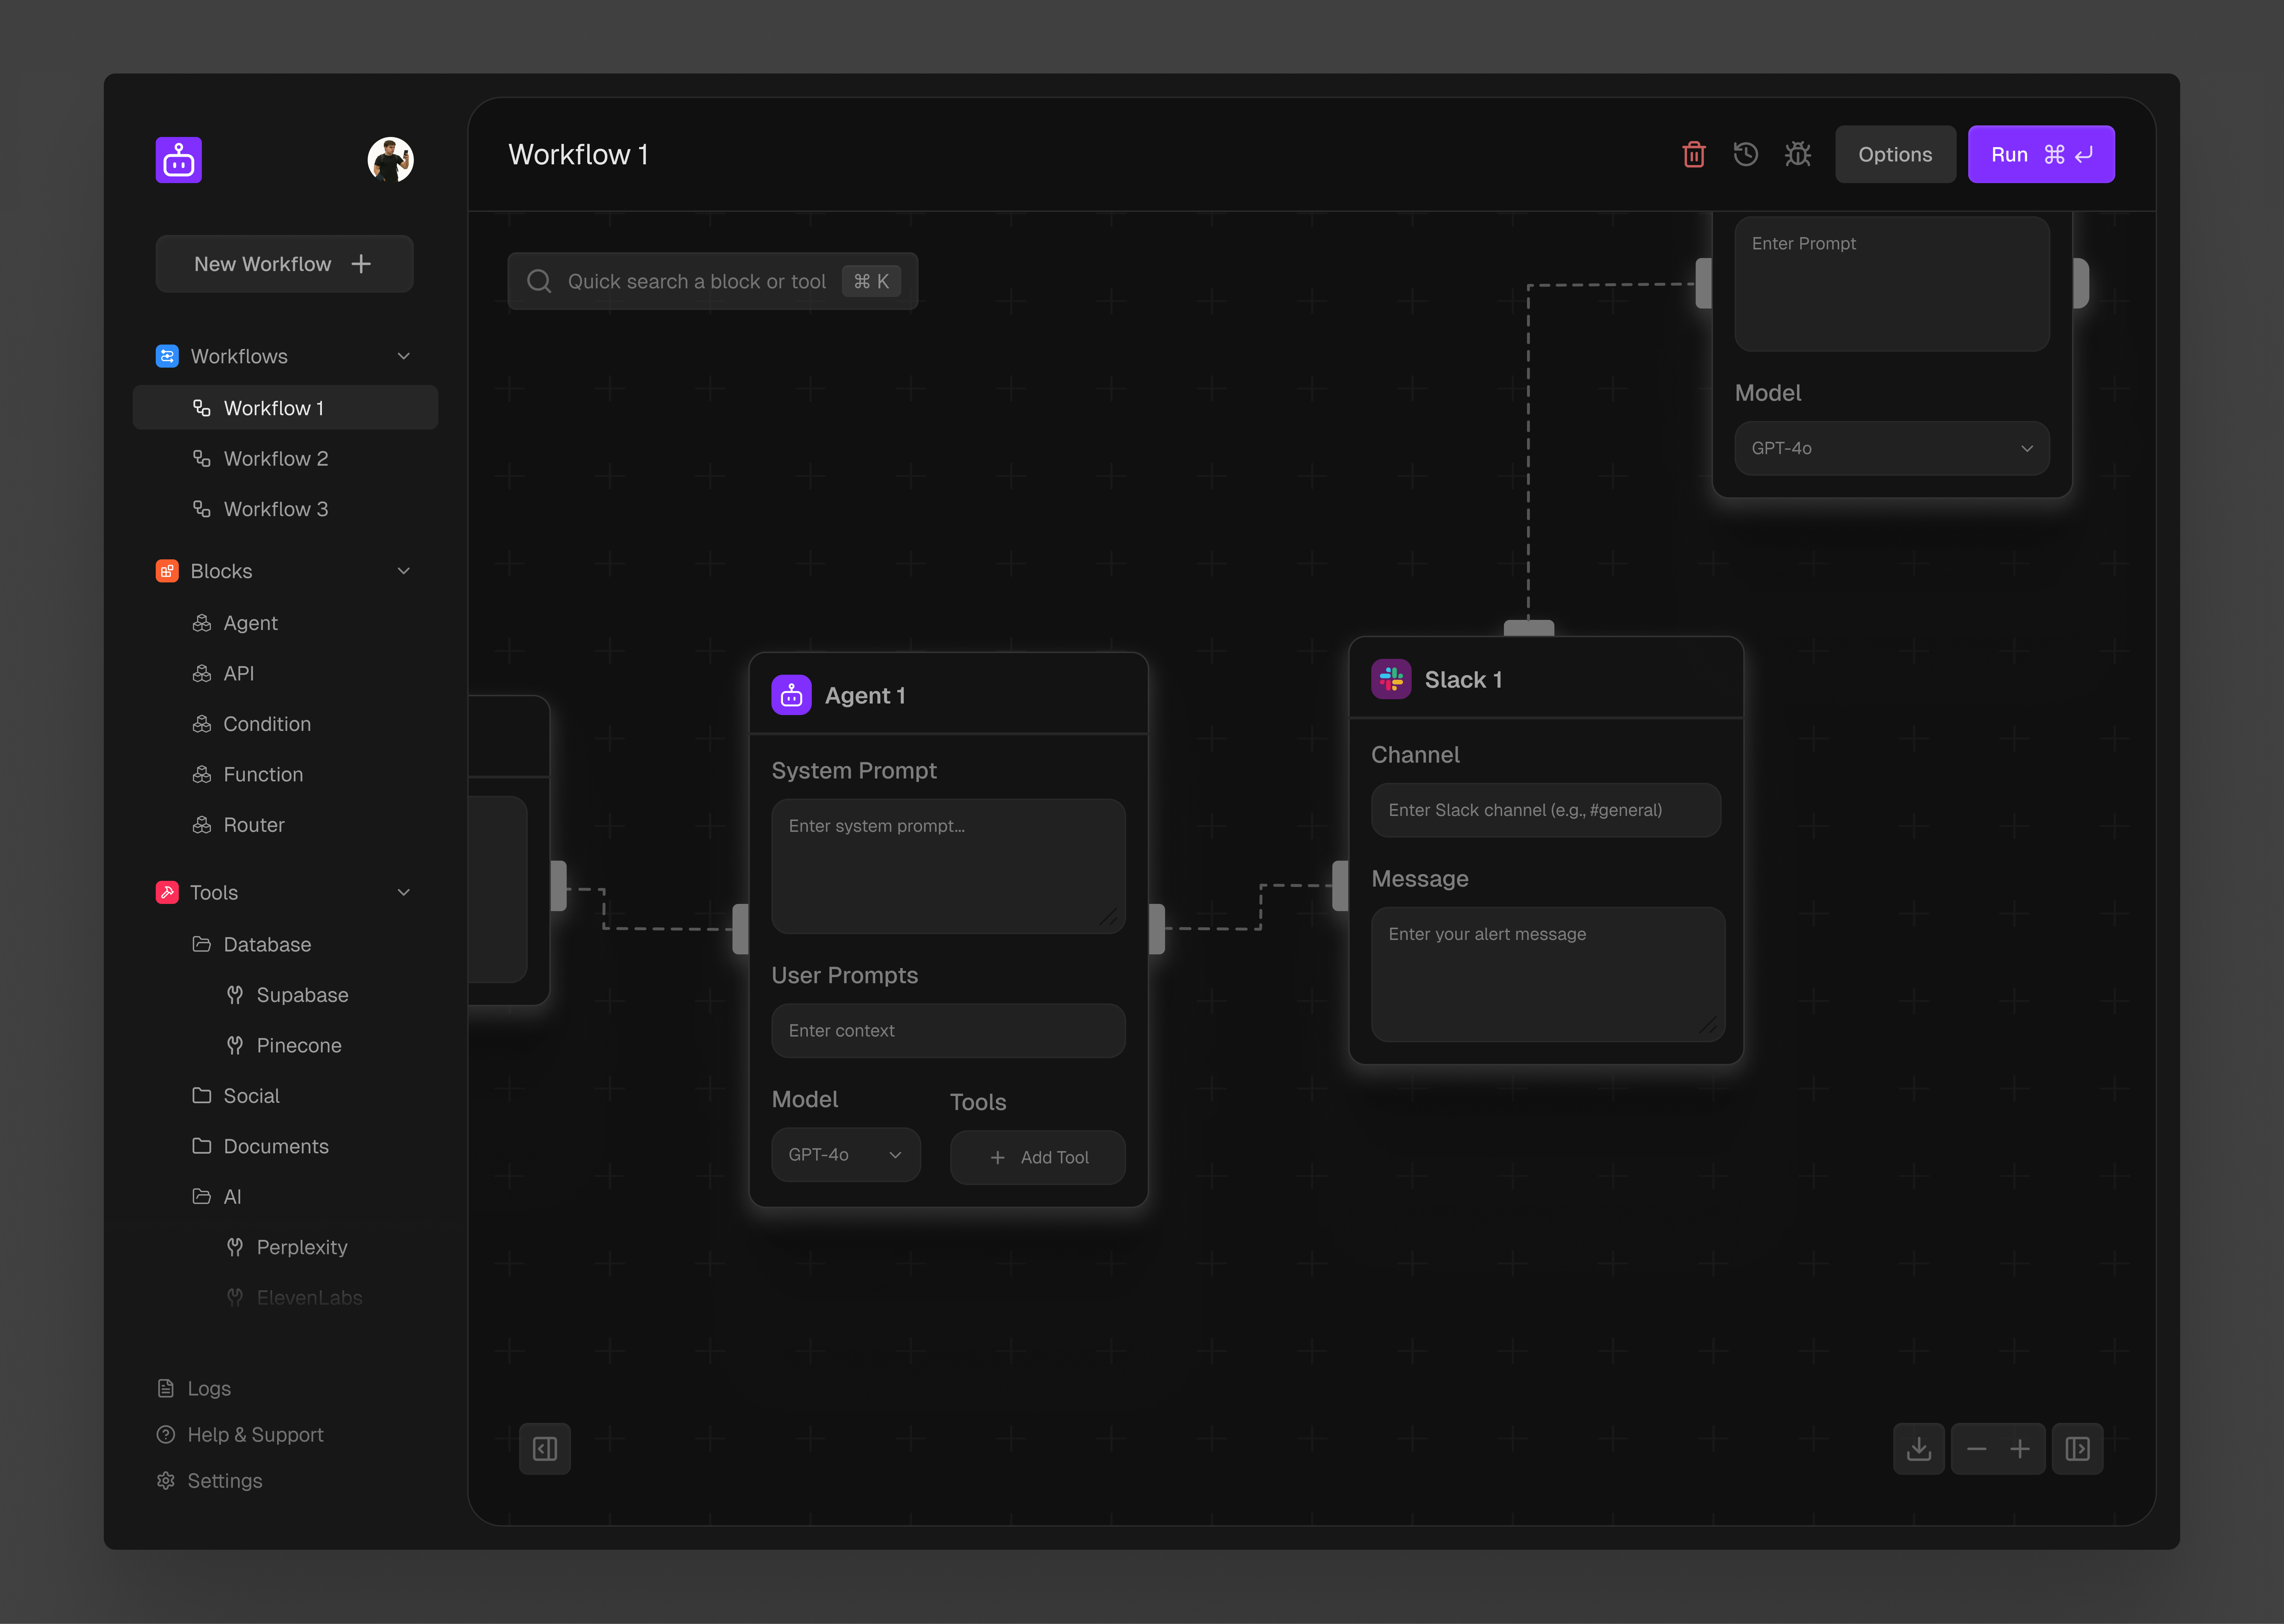
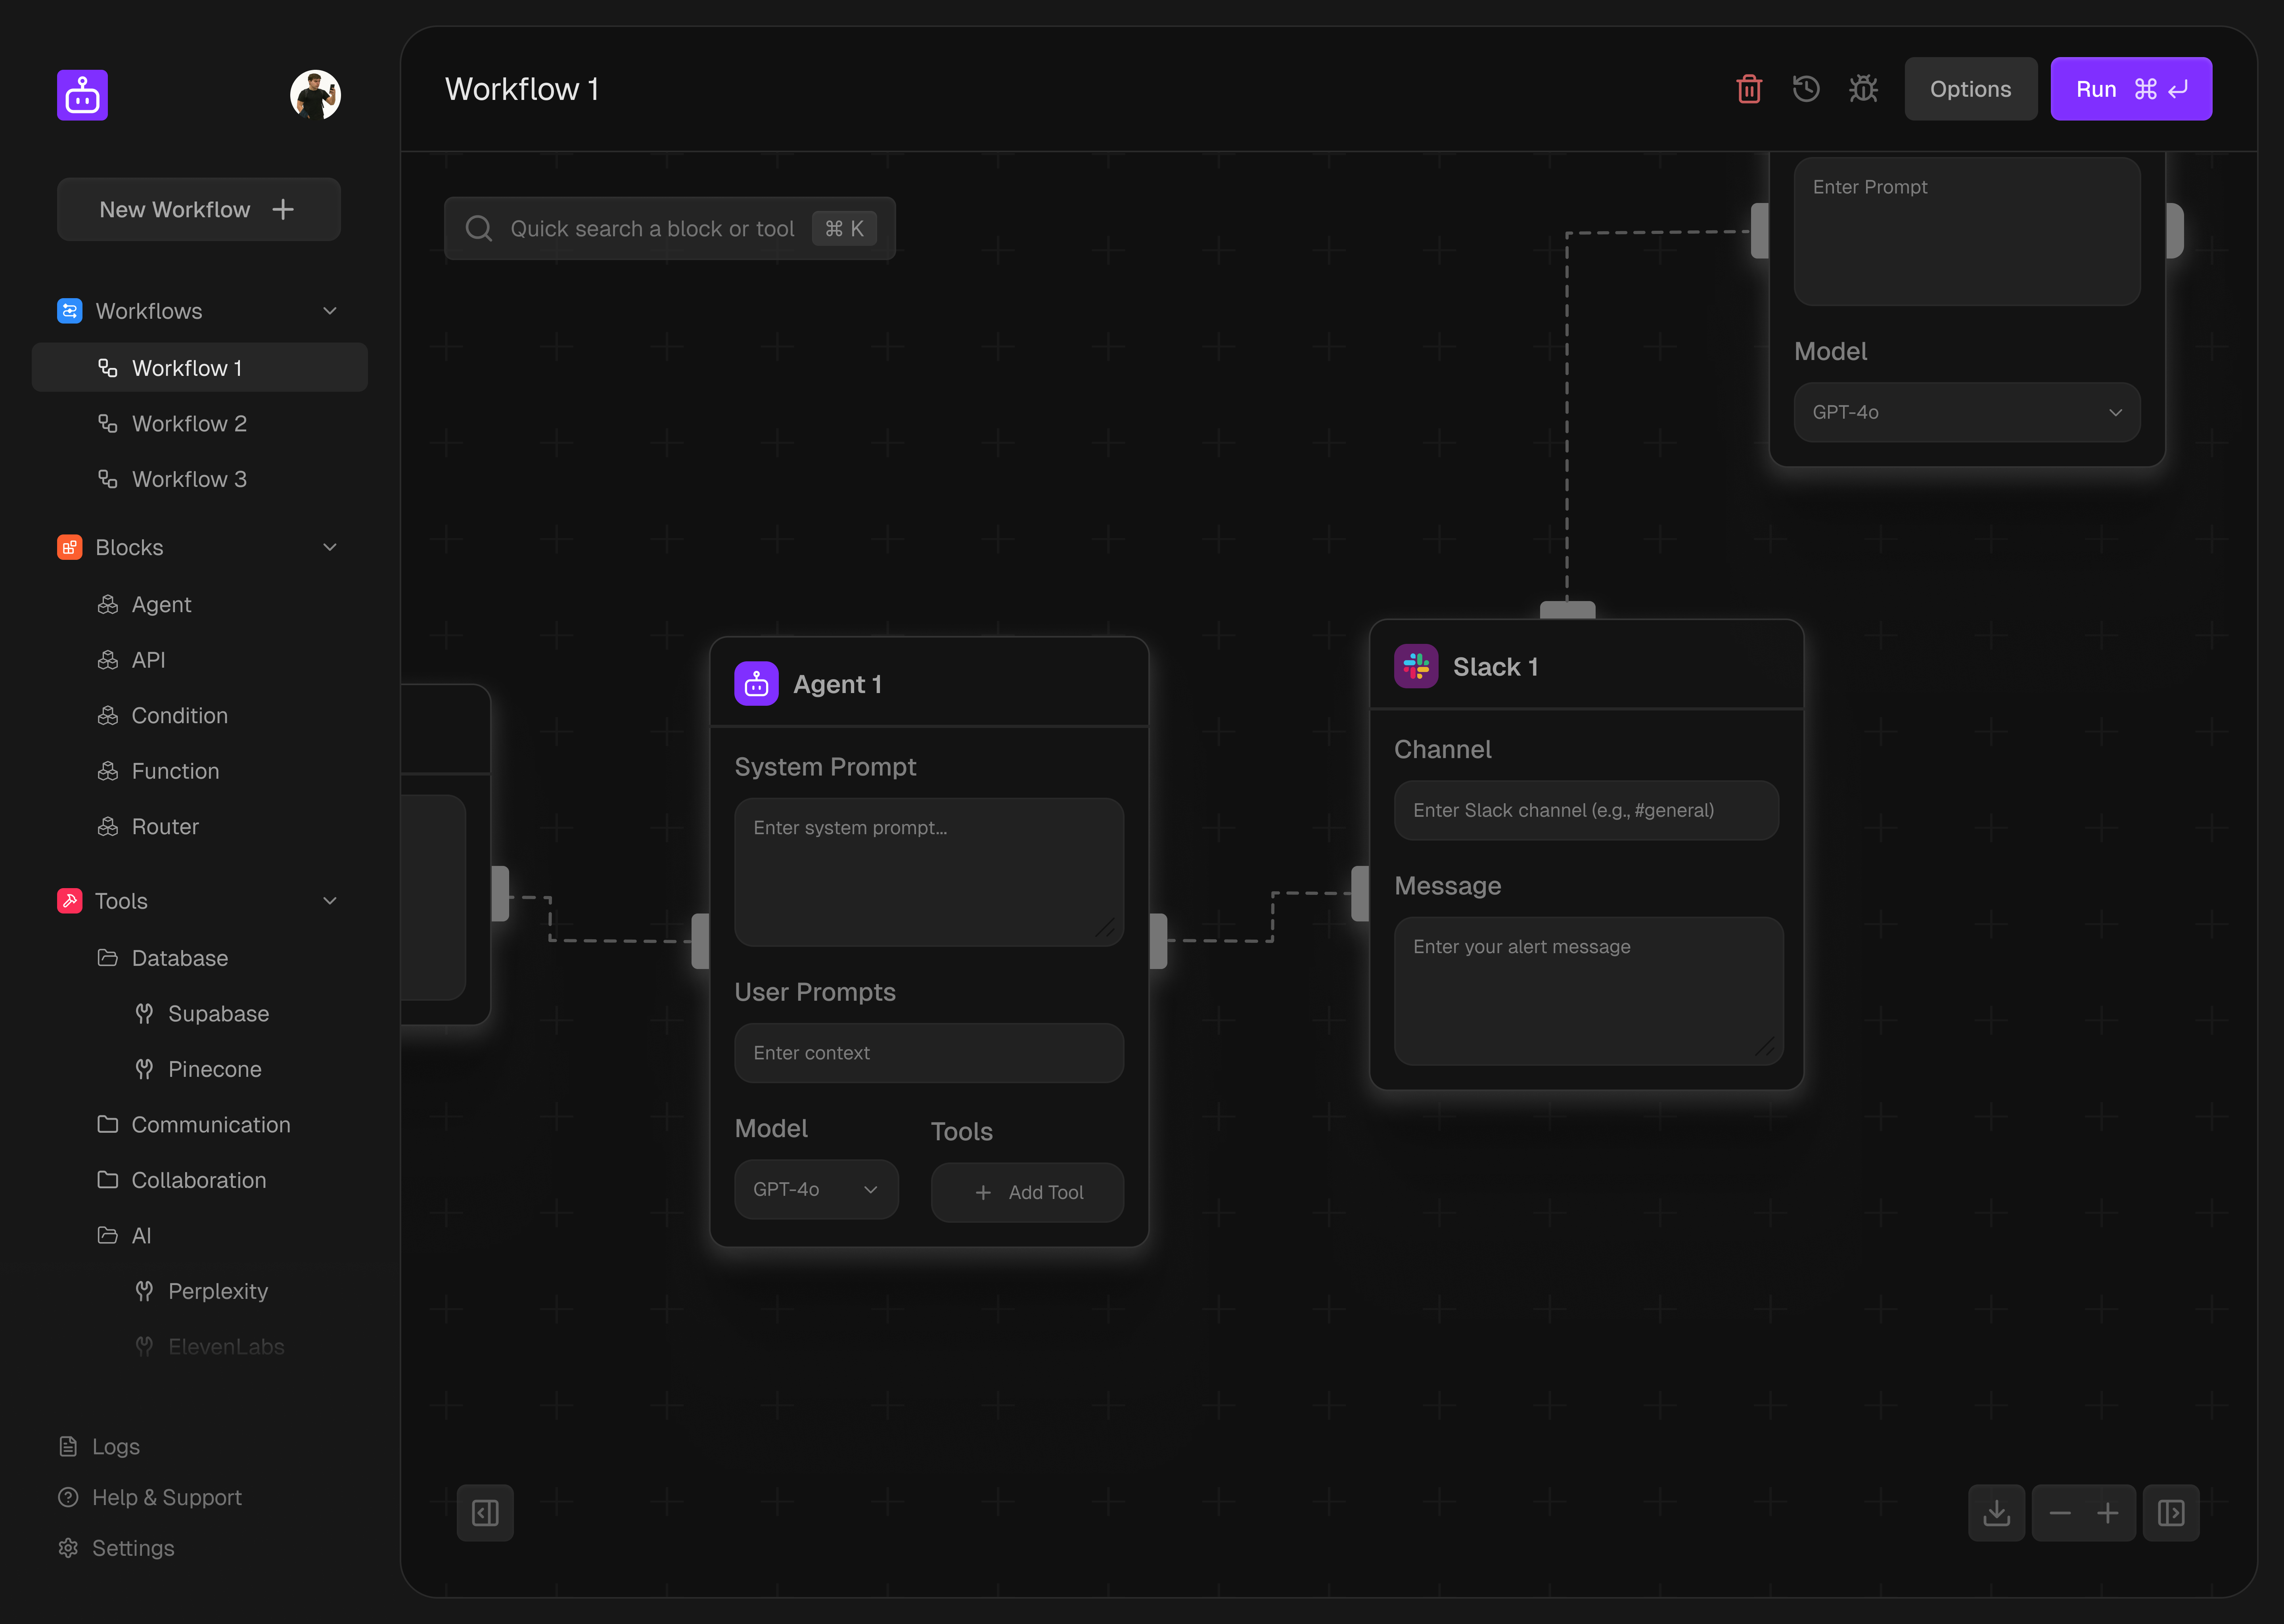
feat: /works

diff --git a/src/app/works/page.tsx b/src/app/works/page.tsx
@@ -1,0 +1,44 @@
+import React from 'react'
+import Image from 'next/image'
+
+const WORK_IMAGES = [
+  "/assets/hero/1.png",
+  "/assets/hero/2.png",
+  "/assets/hero/3.png",
+  "/assets/hero/4.png",
+  "/assets/hero/5.png",
+  "/assets/hero/6.png",
+  "/assets/hero/7.png",
+  "/assets/hero/8.png",
+  "/assets/hero/9.png",
+  "/assets/hero/10.png",
+  "/assets/hero/11.png",
+  "/assets/hero/12.png",
+  "/assets/hero/13.png",
+  "/assets/hero/14.png",
+  "/assets/hero/15.png",
+  "/assets/hero/16.png",
+  "/assets/hero/17.png",
+  "/assets/hero/18.png",
+  "/assets/hero/19.png",
+  "/assets/hero/20.png",
+  "/assets/hero/21.png",
+  "/assets/hero/22.png",
+  "/assets/hero/23.png",
+]
+
+function Works() {
+  return (
+    <div className='flex flex-col gap-12 py-12'>
+      {
+            WORK_IMAGES.map((item, i) => (
+              <div className='p-4 border border-black/5 rounded-xl bg-neutral-200/10' key={i}>
+                <Image className='aspect-[16:10] object-cover object-left-top rounded-md' width={1440} height={1024} src={item} alt={'Image ' + i}/>
+              </div>
+            ))
+          }
+    </div>
+  )
+}
+
+export default Works